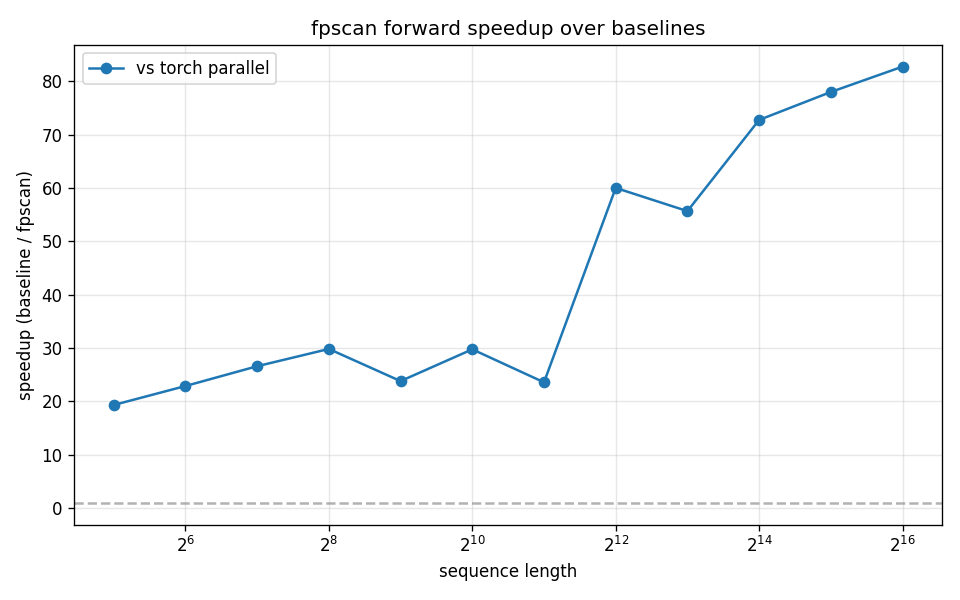
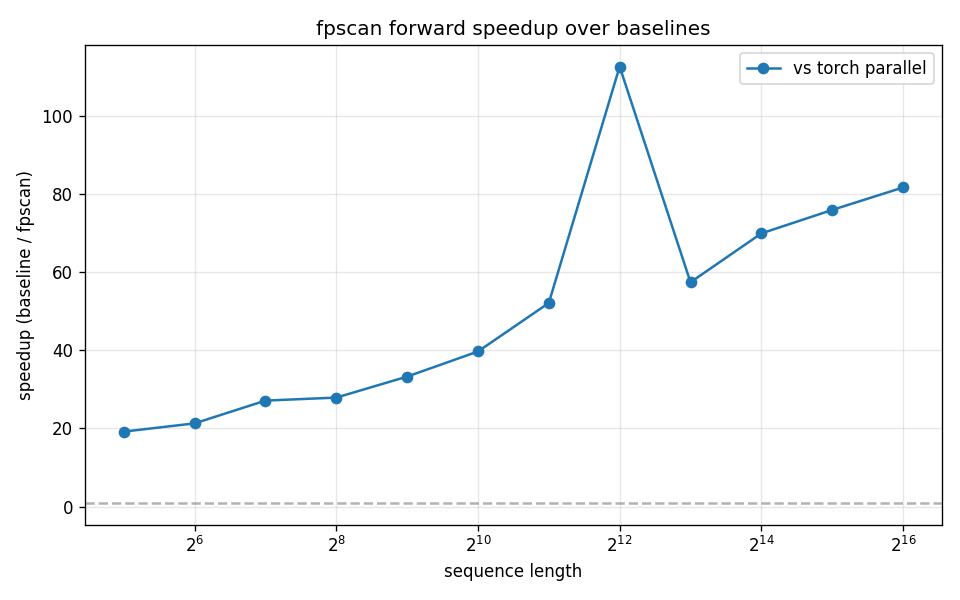
conversion redefinition

diff --git a/csrc/full_scan/bytes_to_type.h b/csrc/full_scan/bytes_to_type.h
@@ -1,0 +1,13 @@
+#pragma once
+
+#include <cstdint>
+#include <vector_types.h>
+
+template <int Bytes>
+struct BytesToType;
+
+template <> struct BytesToType<16> { using Type = uint4; };
+template <> struct BytesToType<8>  { using Type = uint2; };
+template <> struct BytesToType<4>  { using Type = uint32_t; };
+template <> struct BytesToType<2>  { using Type = uint16_t; };
+template <> struct BytesToType<1>  { using Type = uint8_t; };

diff --git a/csrc/full_scan/conversion.h b/csrc/full_scan/conversion.h
@@ -1,0 +1,13 @@
+#pragma once
+
+#include <cuda_fp16.h>
+#include <cuda_bf16.h>
+
+
+__forceinline__ __device__ float to_float(const float x) { return x; }
+__forceinline__ __device__ float to_float(const __half x) { return __half2float(x); }
+__forceinline__ __device__ float to_float(const __nv_bfloat16 x) { return __bfloat162float(x); }
+
+__forceinline__ __device__ void from_float(float &dst, const float x) { dst = x; }
+__forceinline__ __device__ void from_float(__half &dst, const float x) { dst = __float2half(x); }
+__forceinline__ __device__ void from_float(__nv_bfloat16 &dst, const float x) { dst = __float2bfloat16(x); }

diff --git a/README.md b/README.md
@@ -11,7 +11,7 @@ over long sequences, the core primitive behind linear attention, state space
 models, and Mamba style sequence models. It is differentiable and runs in
 float32, float16, and bfloat16.
 
-**Up to 83x faster than a pure PyTorch parallel scan, and under one millisecond
+**Up to 112x faster than a pure PyTorch parallel scan, and under one millisecond
 for sequences up to 32768 tokens on an RTX 4060 Laptop GPU.**
 
 ## Install
@@ -46,25 +46,29 @@ fair parallel reference rather than a serial loop.
 
 | seqlen | fpscan p50 (ms) | torch parallel p50 (ms) | speedup | fpscan GB/s |
 |-------:|----------------:|------------------------:|--------:|------------:|
-| 32     | 0.0072          | 0.1385                  | 19.32x  | 27.4        |
-| 64     | 0.0072          | 0.1640                  | 22.87x  | 54.9        |
-| 128    | 0.0072          | 0.1906                  | 26.58x  | 109.7       |
-| 256    | 0.0073          | 0.2171                  | 29.82x  | 216.1       |
-| 512    | 0.0102          | 0.2437                  | 23.80x  | 307.2       |
-| 1024   | 0.0123          | 0.3656                  | 29.75x  | 512.0       |
-| 2048   | 0.0307          | 0.7240                  | 23.57x  | 409.6       |
-| 4096   | 0.0614          | 3.6864                  | 60.00x  | 409.6       |
-| 8192   | 0.2069          | 11.5171                 | 55.65x  | 243.2       |
-| 16384  | 0.4188          | 30.4671                 | 72.75x  | 240.4       |
-| 32768  | 0.8376          | 65.3169                 | 77.98x  | 240.4       |
-| 65536  | 1.6814          | 139.1119                | 82.74x  | 239.5       |
+| 32     | 0.0074          | 0.1412                  | 19.18x  | 26.7        |
+| 64     | 0.0079          | 0.1690                  | 21.29x  | 49.5        |
+| 128    | 0.0073          | 0.1978                  | 27.11x  | 107.8       |
+| 256    | 0.0081          | 0.2253                  | 27.88x  | 194.7       |
+| 512    | 0.0075          | 0.2479                  | 33.25x  | 421.9       |
+| 1024   | 0.0092          | 0.3656                  | 39.67x  | 682.7       |
+| 2048   | 0.0133          | 0.6932                  | 52.08x  | 945.2       |
+| 4096   | 0.0328          | 3.6864                  | 112.50x | 768.0       |
+| 8192   | 0.2008          | 11.5180                 | 57.37x  | 250.7       |
+| 16384  | 0.4362          | 30.4717                 | 69.85x  | 230.8       |
+| 32768  | 0.8612          | 65.3271                 | 75.86x  | 233.8       |
+| 65536  | 1.7050          | 139.1247                | 81.60x  | 236.2       |
 
 fpscan is faster at every sequence length, from about 19x at short sequences to
-about 83x at 65536, and stays under a millisecond out to 32768 tokens where the
-pure PyTorch baseline already takes tens of milliseconds. The GB/s column is the
-effective memory bandwidth of the scan, counting two reads and one write.
-Numbers depend on the GPU, dtype, batch, and dim, so run the benchmark on your
-own hardware to get figures for your setup.
+over 80x at 65536, and stays under a millisecond out to 32768 tokens where the
+pure PyTorch baseline already takes tens of milliseconds. The mid-range
+(512-4096) is where the kernel is fastest in absolute terms: vectorized loads
+plus L2 residency push effective bandwidth up to ~945 GB/s. Beyond 4096 the
+working set spills out of L2 and the scan becomes DRAM-bandwidth bound, running
+near the memory ceiling. The GB/s column is the effective memory bandwidth of
+the scan, counting two reads and one write. Numbers depend on the GPU, dtype,
+batch, and dim, so run the benchmark on your own hardware to get figures for
+your setup.
 
 
 ## Usage
@@ -172,10 +176,14 @@ not yet supported.
 ## How it works
 
 The kernel runs a three level hierarchical scan, one block per `(batch, dim)`
-pair. Each thread scans a few elements sequentially in registers, then warps
-combine their partial results with warp shuffles, then a leading warp combines
-the per warp totals, and the prefixes are pushed back down. Longer sequences are
-processed in chunks within the same block.
+pair. Each thread loads its elements with a single vectorized 128-bit access
+(`float4`, or the packed 64-bit equivalent for float16/bfloat16) and scans them
+sequentially in registers, then warps combine their partial results with warp
+shuffles, then a leading warp combines the per warp totals, and the prefixes are
+pushed back down. Longer sequences are processed in chunks within the same
+block. The scan always accumulates in float32, even for float16 and bfloat16
+inputs, so the narrow types keep full precision through the recurrence and only
+the loads and stores are narrow.
 
 ## License
 